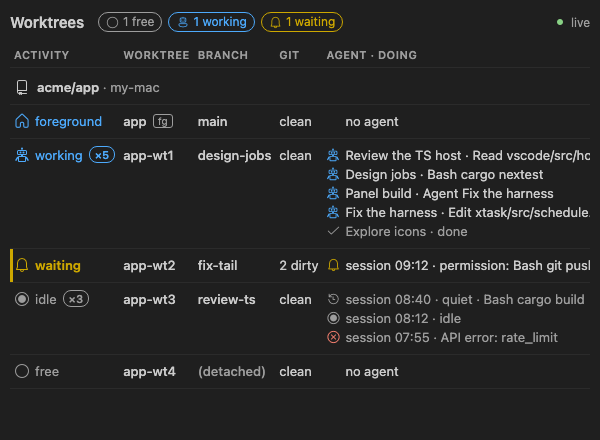
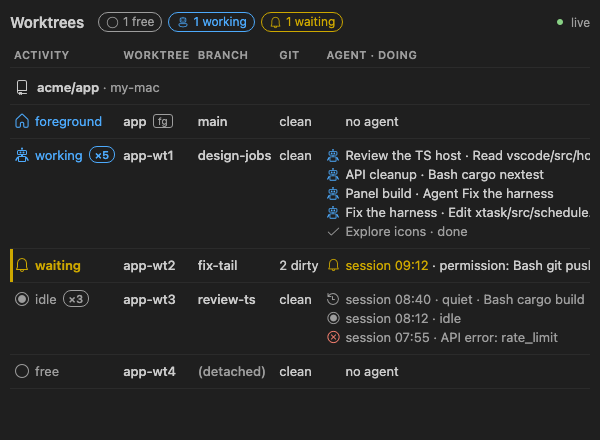
Neutral session titles in the sample data
The sample session titles in the design mockups and test fixtures are neutral names now, and the mockup images are rendered again from their pages.

Changed region(s): [[0.54, 0.325, 0.9, 0.5318], [0.57, 0.5909, 0.72, 0.6205], [0.54, 0.65, 0.57, 0.7091]]

diff --git a/docs/design/status-panel/attachments/SeveralAgents.html b/docs/design/status-panel/attachments/SeveralAgents.html
@@ -32,7 +32,7 @@
 <td class="worktree" dir="ltr"><bdi class="name">app-wt1</bdi> <span class="role" hidden></span></td>
 <td class="branch" dir="ltr"><bdi>design-jobs</bdi></td>
 <td class="git" dir="ltr"><bdi>clean</bdi></td>
-<td class="agent" dir="ltr"><div class="line state-working"><span class="line-icon" aria-hidden="true"><svg class="robot" viewBox="0 0 16 16" width="14" height="14" aria-hidden="true" focusable="false"><path class="robot-frame" fill="currentColor" d="M8 .5a1 1 0 1 1 0 2 1 1 0 0 1 0-2ZM7.5 2h1v1.5h-1ZM7 8h2v1H7Z"/><path class="robot-frame" fill="currentColor" fill-rule="evenodd" d="M4.5 3h7A1.5 1.5 0 0 1 13 4.5v2A1.5 1.5 0 0 1 11.5 8h-7A1.5 1.5 0 0 1 3 6.5v-2A1.5 1.5 0 0 1 4.5 3Zm0 1a.5.5 0 0 0-.5.5v2a.5.5 0 0 0 .5.5h7a.5.5 0 0 0 .5-.5v-2a.5.5 0 0 0-.5-.5ZM6.5 4.5a1 1 0 1 1 0 2 1 1 0 0 1 0-2Zm3 0a1 1 0 1 1 0 2 1 1 0 0 1 0-2ZM5 9h6a1 1 0 0 1 1 1v4a1 1 0 0 1-1 1H5a1 1 0 0 1-1-1v-4a1 1 0 0 1 1-1Zm0 1v4h6v-4Z"/><path class="line-arm line-arm-left" fill="currentColor" d="M3.5 9.75a.75.75 0 0 1 .75.75v3a.75.75 0 0 1-1.5 0v-3a.75.75 0 0 1 .75-.75Z"/><path class="line-arm line-arm-right" fill="currentColor" d="M12.5 9.75a.75.75 0 0 1 .75.75v3a.75.75 0 0 1-1.5 0v-3a.75.75 0 0 1 .75-.75Z"/></svg></span><span class="visually-hidden">working: </span><bdi>Review the TS host</bdi> · <bdi>Read</bdi> <bdi>vscode/src/host/panel.ts</bdi></div><div class="line state-working"><span class="line-icon" aria-hidden="true"><svg class="robot" viewBox="0 0 16 16" width="14" height="14" aria-hidden="true" focusable="false"><path class="robot-frame" fill="currentColor" d="M8 .5a1 1 0 1 1 0 2 1 1 0 0 1 0-2ZM7.5 2h1v1.5h-1ZM7 8h2v1H7Z"/><path class="robot-frame" fill="currentColor" fill-rule="evenodd" d="M4.5 3h7A1.5 1.5 0 0 1 13 4.5v2A1.5 1.5 0 0 1 11.5 8h-7A1.5 1.5 0 0 1 3 6.5v-2A1.5 1.5 0 0 1 4.5 3Zm0 1a.5.5 0 0 0-.5.5v2a.5.5 0 0 0 .5.5h7a.5.5 0 0 0 .5-.5v-2a.5.5 0 0 0-.5-.5ZM6.5 4.5a1 1 0 1 1 0 2 1 1 0 0 1 0-2Zm3 0a1 1 0 1 1 0 2 1 1 0 0 1 0-2ZM5 9h6a1 1 0 0 1 1 1v4a1 1 0 0 1-1 1H5a1 1 0 0 1-1-1v-4a1 1 0 0 1 1-1Zm0 1v4h6v-4Z"/><path class="line-arm line-arm-left" fill="currentColor" d="M3.5 9.75a.75.75 0 0 1 .75.75v3a.75.75 0 0 1-1.5 0v-3a.75.75 0 0 1 .75-.75Z"/><path class="line-arm line-arm-right" fill="currentColor" d="M12.5 9.75a.75.75 0 0 1 .75.75v3a.75.75 0 0 1-1.5 0v-3a.75.75 0 0 1 .75-.75Z"/></svg></span><span class="visually-hidden">working: </span><bdi>Design jobs</bdi> · <bdi>Bash</bdi> <bdi>cargo nextest</bdi></div><div class="line state-working"><span class="line-icon" aria-hidden="true"><svg class="robot" viewBox="0 0 16 16" width="14" height="14" aria-hidden="true" focusable="false"><path class="robot-frame" fill="currentColor" d="M8 .5a1 1 0 1 1 0 2 1 1 0 0 1 0-2ZM7.5 2h1v1.5h-1ZM7 8h2v1H7Z"/><path class="robot-frame" fill="currentColor" fill-rule="evenodd" d="M4.5 3h7A1.5 1.5 0 0 1 13 4.5v2A1.5 1.5 0 0 1 11.5 8h-7A1.5 1.5 0 0 1 3 6.5v-2A1.5 1.5 0 0 1 4.5 3Zm0 1a.5.5 0 0 0-.5.5v2a.5.5 0 0 0 .5.5h7a.5.5 0 0 0 .5-.5v-2a.5.5 0 0 0-.5-.5ZM6.5 4.5a1 1 0 1 1 0 2 1 1 0 0 1 0-2Zm3 0a1 1 0 1 1 0 2 1 1 0 0 1 0-2ZM5 9h6a1 1 0 0 1 1 1v4a1 1 0 0 1-1 1H5a1 1 0 0 1-1-1v-4a1 1 0 0 1 1-1Zm0 1v4h6v-4Z"/><path class="line-arm line-arm-left" fill="currentColor" d="M3.5 9.75a.75.75 0 0 1 .75.75v3a.75.75 0 0 1-1.5 0v-3a.75.75 0 0 1 .75-.75Z"/><path class="line-arm line-arm-right" fill="currentColor" d="M12.5 9.75a.75.75 0 0 1 .75.75v3a.75.75 0 0 1-1.5 0v-3a.75.75 0 0 1 .75-.75Z"/></svg></span><span class="visually-hidden">working: </span><bdi>Panel build</bdi> · <bdi>Agent</bdi> <bdi>Fix the harness</bdi></div><div class="line state-working"><span class="line-icon" aria-hidden="true"><svg class="robot" viewBox="0 0 16 16" width="14" height="14" aria-hidden="true" focusable="false"><path class="robot-frame" fill="currentColor" d="M8 .5a1 1 0 1 1 0 2 1 1 0 0 1 0-2ZM7.5 2h1v1.5h-1ZM7 8h2v1H7Z"/><path class="robot-frame" fill="currentColor" fill-rule="evenodd" d="M4.5 3h7A1.5 1.5 0 0 1 13 4.5v2A1.5 1.5 0 0 1 11.5 8h-7A1.5 1.5 0 0 1 3 6.5v-2A1.5 1.5 0 0 1 4.5 3Zm0 1a.5.5 0 0 0-.5.5v2a.5.5 0 0 0 .5.5h7a.5.5 0 0 0 .5-.5v-2a.5.5 0 0 0-.5-.5ZM6.5 4.5a1 1 0 1 1 0 2 1 1 0 0 1 0-2Zm3 0a1 1 0 1 1 0 2 1 1 0 0 1 0-2ZM5 9h6a1 1 0 0 1 1 1v4a1 1 0 0 1-1 1H5a1 1 0 0 1-1-1v-4a1 1 0 0 1 1-1Zm0 1v4h6v-4Z"/><path class="line-arm line-arm-left" fill="currentColor" d="M3.5 9.75a.75.75 0 0 1 .75.75v3a.75.75 0 0 1-1.5 0v-3a.75.75 0 0 1 .75-.75Z"/><path class="line-arm line-arm-right" fill="currentColor" d="M12.5 9.75a.75.75 0 0 1 .75.75v3a.75.75 0 0 1-1.5 0v-3a.75.75 0 0 1 .75-.75Z"/></svg></span><span class="visually-hidden">working: </span><bdi>Fix the harness</bdi> · <bdi>Edit</bdi> <bdi>xtask/src/schedule.rs</bdi></div><div class="line state-done"><span class="line-icon line-icon-done" aria-hidden="true"></span><span class="visually-hidden">done: </span><bdi>Explore icons</bdi> · done</div></td>
+<td class="agent" dir="ltr"><div class="line state-working"><span class="line-icon" aria-hidden="true"><svg class="robot" viewBox="0 0 16 16" width="14" height="14" aria-hidden="true" focusable="false"><path class="robot-frame" fill="currentColor" d="M8 .5a1 1 0 1 1 0 2 1 1 0 0 1 0-2ZM7.5 2h1v1.5h-1ZM7 8h2v1H7Z"/><path class="robot-frame" fill="currentColor" fill-rule="evenodd" d="M4.5 3h7A1.5 1.5 0 0 1 13 4.5v2A1.5 1.5 0 0 1 11.5 8h-7A1.5 1.5 0 0 1 3 6.5v-2A1.5 1.5 0 0 1 4.5 3Zm0 1a.5.5 0 0 0-.5.5v2a.5.5 0 0 0 .5.5h7a.5.5 0 0 0 .5-.5v-2a.5.5 0 0 0-.5-.5ZM6.5 4.5a1 1 0 1 1 0 2 1 1 0 0 1 0-2Zm3 0a1 1 0 1 1 0 2 1 1 0 0 1 0-2ZM5 9h6a1 1 0 0 1 1 1v4a1 1 0 0 1-1 1H5a1 1 0 0 1-1-1v-4a1 1 0 0 1 1-1Zm0 1v4h6v-4Z"/><path class="line-arm line-arm-left" fill="currentColor" d="M3.5 9.75a.75.75 0 0 1 .75.75v3a.75.75 0 0 1-1.5 0v-3a.75.75 0 0 1 .75-.75Z"/><path class="line-arm line-arm-right" fill="currentColor" d="M12.5 9.75a.75.75 0 0 1 .75.75v3a.75.75 0 0 1-1.5 0v-3a.75.75 0 0 1 .75-.75Z"/></svg></span><span class="visually-hidden">working: </span><bdi>Review the TS host</bdi> · <bdi>Read</bdi> <bdi>vscode/src/host/panel.ts</bdi></div><div class="line state-working"><span class="line-icon" aria-hidden="true"><svg class="robot" viewBox="0 0 16 16" width="14" height="14" aria-hidden="true" focusable="false"><path class="robot-frame" fill="currentColor" d="M8 .5a1 1 0 1 1 0 2 1 1 0 0 1 0-2ZM7.5 2h1v1.5h-1ZM7 8h2v1H7Z"/><path class="robot-frame" fill="currentColor" fill-rule="evenodd" d="M4.5 3h7A1.5 1.5 0 0 1 13 4.5v2A1.5 1.5 0 0 1 11.5 8h-7A1.5 1.5 0 0 1 3 6.5v-2A1.5 1.5 0 0 1 4.5 3Zm0 1a.5.5 0 0 0-.5.5v2a.5.5 0 0 0 .5.5h7a.5.5 0 0 0 .5-.5v-2a.5.5 0 0 0-.5-.5ZM6.5 4.5a1 1 0 1 1 0 2 1 1 0 0 1 0-2Zm3 0a1 1 0 1 1 0 2 1 1 0 0 1 0-2ZM5 9h6a1 1 0 0 1 1 1v4a1 1 0 0 1-1 1H5a1 1 0 0 1-1-1v-4a1 1 0 0 1 1-1Zm0 1v4h6v-4Z"/><path class="line-arm line-arm-left" fill="currentColor" d="M3.5 9.75a.75.75 0 0 1 .75.75v3a.75.75 0 0 1-1.5 0v-3a.75.75 0 0 1 .75-.75Z"/><path class="line-arm line-arm-right" fill="currentColor" d="M12.5 9.75a.75.75 0 0 1 .75.75v3a.75.75 0 0 1-1.5 0v-3a.75.75 0 0 1 .75-.75Z"/></svg></span><span class="visually-hidden">working: </span><bdi>API cleanup</bdi> · <bdi>Bash</bdi> <bdi>cargo nextest</bdi></div><div class="line state-working"><span class="line-icon" aria-hidden="true"><svg class="robot" viewBox="0 0 16 16" width="14" height="14" aria-hidden="true" focusable="false"><path class="robot-frame" fill="currentColor" d="M8 .5a1 1 0 1 1 0 2 1 1 0 0 1 0-2ZM7.5 2h1v1.5h-1ZM7 8h2v1H7Z"/><path class="robot-frame" fill="currentColor" fill-rule="evenodd" d="M4.5 3h7A1.5 1.5 0 0 1 13 4.5v2A1.5 1.5 0 0 1 11.5 8h-7A1.5 1.5 0 0 1 3 6.5v-2A1.5 1.5 0 0 1 4.5 3Zm0 1a.5.5 0 0 0-.5.5v2a.5.5 0 0 0 .5.5h7a.5.5 0 0 0 .5-.5v-2a.5.5 0 0 0-.5-.5ZM6.5 4.5a1 1 0 1 1 0 2 1 1 0 0 1 0-2Zm3 0a1 1 0 1 1 0 2 1 1 0 0 1 0-2ZM5 9h6a1 1 0 0 1 1 1v4a1 1 0 0 1-1 1H5a1 1 0 0 1-1-1v-4a1 1 0 0 1 1-1Zm0 1v4h6v-4Z"/><path class="line-arm line-arm-left" fill="currentColor" d="M3.5 9.75a.75.75 0 0 1 .75.75v3a.75.75 0 0 1-1.5 0v-3a.75.75 0 0 1 .75-.75Z"/><path class="line-arm line-arm-right" fill="currentColor" d="M12.5 9.75a.75.75 0 0 1 .75.75v3a.75.75 0 0 1-1.5 0v-3a.75.75 0 0 1 .75-.75Z"/></svg></span><span class="visually-hidden">working: </span><bdi>Panel build</bdi> · <bdi>Agent</bdi> <bdi>Fix the harness</bdi></div><div class="line state-working"><span class="line-icon" aria-hidden="true"><svg class="robot" viewBox="0 0 16 16" width="14" height="14" aria-hidden="true" focusable="false"><path class="robot-frame" fill="currentColor" d="M8 .5a1 1 0 1 1 0 2 1 1 0 0 1 0-2ZM7.5 2h1v1.5h-1ZM7 8h2v1H7Z"/><path class="robot-frame" fill="currentColor" fill-rule="evenodd" d="M4.5 3h7A1.5 1.5 0 0 1 13 4.5v2A1.5 1.5 0 0 1 11.5 8h-7A1.5 1.5 0 0 1 3 6.5v-2A1.5 1.5 0 0 1 4.5 3Zm0 1a.5.5 0 0 0-.5.5v2a.5.5 0 0 0 .5.5h7a.5.5 0 0 0 .5-.5v-2a.5.5 0 0 0-.5-.5ZM6.5 4.5a1 1 0 1 1 0 2 1 1 0 0 1 0-2Zm3 0a1 1 0 1 1 0 2 1 1 0 0 1 0-2ZM5 9h6a1 1 0 0 1 1 1v4a1 1 0 0 1-1 1H5a1 1 0 0 1-1-1v-4a1 1 0 0 1 1-1Zm0 1v4h6v-4Z"/><path class="line-arm line-arm-left" fill="currentColor" d="M3.5 9.75a.75.75 0 0 1 .75.75v3a.75.75 0 0 1-1.5 0v-3a.75.75 0 0 1 .75-.75Z"/><path class="line-arm line-arm-right" fill="currentColor" d="M12.5 9.75a.75.75 0 0 1 .75.75v3a.75.75 0 0 1-1.5 0v-3a.75.75 0 0 1 .75-.75Z"/></svg></span><span class="visually-hidden">working: </span><bdi>Fix the harness</bdi> · <bdi>Edit</bdi> <bdi>xtask/src/schedule.rs</bdi></div><div class="line state-done"><span class="line-icon line-icon-done" aria-hidden="true"></span><span class="visually-hidden">done: </span><bdi>Explore icons</bdi> · done</div></td>
 <td class="last"><div class="line">now</div><div class="line">8 s</div><div class="line">14 s</div><div class="line">40 s</div><div class="line">50 s</div></td>
 <td class="actions"><button type="button" class="action action-open" aria-label="open"></button><button type="button" class="action action-terminal" aria-label="terminal"></button><button type="button" class="action action-copy-path" aria-label="copy-path"></button></td>
 </tr>

diff --git a/docs/design/jobs/attachments/Strip.html b/docs/design/jobs/attachments/Strip.html
@@ -41,7 +41,7 @@
 <div class="agents-heading">Running 4 of 4</div>
 <ol class="jobs-list jobs-running"><li><bdi class="job-summary">cargo nextest</bdi><bdi class="job-where">app-wt1 · Panel build</bdi><span class="job-age">4 m</span></li><li><bdi class="job-summary">npm run</bdi><bdi class="job-where">app-wt3 · session 08:40</bdi><span class="job-age">2 m</span></li><li><bdi class="job-summary">verify</bdi><bdi class="job-where">outside this pool</bdi><span class="job-age">12 m</span></li><li><bdi class="job-summary">cargo build</bdi><bdi class="job-where">outside this pool</bdi><span class="job-age">1 m</span></li></ol>
 <div class="agents-heading">Queued 2</div>
-<ol class="jobs-list jobs-waiting"><li><span class="job-position">1</span><bdi class="job-summary">cargo test</bdi><bdi class="job-where">app-wt1 · Design jobs</bdi><span class="job-age">1 m</span></li><li><span class="job-position">2</span><bdi class="job-summary">cargo clippy</bdi><bdi class="job-where">app</bdi><span class="job-age">20 s</span></li></ol>
+<ol class="jobs-list jobs-waiting"><li><span class="job-position">1</span><bdi class="job-summary">cargo test</bdi><bdi class="job-where">app-wt1 · API cleanup</bdi><span class="job-age">1 m</span></li><li><span class="job-position">2</span><bdi class="job-summary">cargo clippy</bdi><bdi class="job-where">app</bdi><span class="job-age">20 s</span></li></ol>
 <div class="agents-heading">Not queued 1</div>
 <ol class="jobs-list jobs-running jobs-outside"><li><bdi class="job-summary">make</bdi><bdi class="job-where">outside this pool</bdi><span class="job-age">3 m</span></li></ol>
 </div>
@@ -60,7 +60,7 @@
 <td class="worktree" dir="ltr"><bdi class="name">app-wt1</bdi> <span class="role" hidden></span></td>
 <td class="branch" dir="ltr"><bdi>design-jobs</bdi></td>
 <td class="git" dir="ltr"><bdi>clean</bdi></td>
-<td class="agent" dir="ltr"><div class="line state-working"><span class="line-icon" aria-hidden="true"><svg class="robot" viewBox="0 0 16 16" width="14" height="14" aria-hidden="true" focusable="false"><path class="robot-frame" fill="currentColor" d="M8 .5a1 1 0 1 1 0 2 1 1 0 0 1 0-2ZM7.5 2h1v1.5h-1ZM7 8h2v1H7Z"/><path class="robot-frame" fill="currentColor" fill-rule="evenodd" d="M4.5 3h7A1.5 1.5 0 0 1 13 4.5v2A1.5 1.5 0 0 1 11.5 8h-7A1.5 1.5 0 0 1 3 6.5v-2A1.5 1.5 0 0 1 4.5 3Zm0 1a.5.5 0 0 0-.5.5v2a.5.5 0 0 0 .5.5h7a.5.5 0 0 0 .5-.5v-2a.5.5 0 0 0-.5-.5ZM6.5 4.5a1 1 0 1 1 0 2 1 1 0 0 1 0-2Zm3 0a1 1 0 1 1 0 2 1 1 0 0 1 0-2ZM5 9h6a1 1 0 0 1 1 1v4a1 1 0 0 1-1 1H5a1 1 0 0 1-1-1v-4a1 1 0 0 1 1-1Zm0 1v4h6v-4Z"/><path class="line-arm line-arm-left" fill="currentColor" d="M3.5 9.75a.75.75 0 0 1 .75.75v3a.75.75 0 0 1-1.5 0v-3a.75.75 0 0 1 .75-.75Z"/><path class="line-arm line-arm-right" fill="currentColor" d="M12.5 9.75a.75.75 0 0 1 .75.75v3a.75.75 0 0 1-1.5 0v-3a.75.75 0 0 1 .75-.75Z"/></svg></span><span class="visually-hidden">working: </span><bdi>Design jobs</bdi> · <bdi>queued:</bdi> <bdi>cargo test</bdi></div><div class="line state-working"><span class="line-icon" aria-hidden="true"><svg class="robot" viewBox="0 0 16 16" width="14" height="14" aria-hidden="true" focusable="false"><path class="robot-frame" fill="currentColor" d="M8 .5a1 1 0 1 1 0 2 1 1 0 0 1 0-2ZM7.5 2h1v1.5h-1ZM7 8h2v1H7Z"/><path class="robot-frame" fill="currentColor" fill-rule="evenodd" d="M4.5 3h7A1.5 1.5 0 0 1 13 4.5v2A1.5 1.5 0 0 1 11.5 8h-7A1.5 1.5 0 0 1 3 6.5v-2A1.5 1.5 0 0 1 4.5 3Zm0 1a.5.5 0 0 0-.5.5v2a.5.5 0 0 0 .5.5h7a.5.5 0 0 0 .5-.5v-2a.5.5 0 0 0-.5-.5ZM6.5 4.5a1 1 0 1 1 0 2 1 1 0 0 1 0-2Zm3 0a1 1 0 1 1 0 2 1 1 0 0 1 0-2ZM5 9h6a1 1 0 0 1 1 1v4a1 1 0 0 1-1 1H5a1 1 0 0 1-1-1v-4a1 1 0 0 1 1-1Zm0 1v4h6v-4Z"/><path class="line-arm line-arm-left" fill="currentColor" d="M3.5 9.75a.75.75 0 0 1 .75.75v3a.75.75 0 0 1-1.5 0v-3a.75.75 0 0 1 .75-.75Z"/><path class="line-arm line-arm-right" fill="currentColor" d="M12.5 9.75a.75.75 0 0 1 .75.75v3a.75.75 0 0 1-1.5 0v-3a.75.75 0 0 1 .75-.75Z"/></svg></span><span class="visually-hidden">working: </span><bdi>Panel build</bdi> · <bdi>Bash</bdi> <bdi>cargo nextest</bdi></div></td>
+<td class="agent" dir="ltr"><div class="line state-working"><span class="line-icon" aria-hidden="true"><svg class="robot" viewBox="0 0 16 16" width="14" height="14" aria-hidden="true" focusable="false"><path class="robot-frame" fill="currentColor" d="M8 .5a1 1 0 1 1 0 2 1 1 0 0 1 0-2ZM7.5 2h1v1.5h-1ZM7 8h2v1H7Z"/><path class="robot-frame" fill="currentColor" fill-rule="evenodd" d="M4.5 3h7A1.5 1.5 0 0 1 13 4.5v2A1.5 1.5 0 0 1 11.5 8h-7A1.5 1.5 0 0 1 3 6.5v-2A1.5 1.5 0 0 1 4.5 3Zm0 1a.5.5 0 0 0-.5.5v2a.5.5 0 0 0 .5.5h7a.5.5 0 0 0 .5-.5v-2a.5.5 0 0 0-.5-.5ZM6.5 4.5a1 1 0 1 1 0 2 1 1 0 0 1 0-2Zm3 0a1 1 0 1 1 0 2 1 1 0 0 1 0-2ZM5 9h6a1 1 0 0 1 1 1v4a1 1 0 0 1-1 1H5a1 1 0 0 1-1-1v-4a1 1 0 0 1 1-1Zm0 1v4h6v-4Z"/><path class="line-arm line-arm-left" fill="currentColor" d="M3.5 9.75a.75.75 0 0 1 .75.75v3a.75.75 0 0 1-1.5 0v-3a.75.75 0 0 1 .75-.75Z"/><path class="line-arm line-arm-right" fill="currentColor" d="M12.5 9.75a.75.75 0 0 1 .75.75v3a.75.75 0 0 1-1.5 0v-3a.75.75 0 0 1 .75-.75Z"/></svg></span><span class="visually-hidden">working: </span><bdi>API cleanup</bdi> · <bdi>queued:</bdi> <bdi>cargo test</bdi></div><div class="line state-working"><span class="line-icon" aria-hidden="true"><svg class="robot" viewBox="0 0 16 16" width="14" height="14" aria-hidden="true" focusable="false"><path class="robot-frame" fill="currentColor" d="M8 .5a1 1 0 1 1 0 2 1 1 0 0 1 0-2ZM7.5 2h1v1.5h-1ZM7 8h2v1H7Z"/><path class="robot-frame" fill="currentColor" fill-rule="evenodd" d="M4.5 3h7A1.5 1.5 0 0 1 13 4.5v2A1.5 1.5 0 0 1 11.5 8h-7A1.5 1.5 0 0 1 3 6.5v-2A1.5 1.5 0 0 1 4.5 3Zm0 1a.5.5 0 0 0-.5.5v2a.5.5 0 0 0 .5.5h7a.5.5 0 0 0 .5-.5v-2a.5.5 0 0 0-.5-.5ZM6.5 4.5a1 1 0 1 1 0 2 1 1 0 0 1 0-2Zm3 0a1 1 0 1 1 0 2 1 1 0 0 1 0-2ZM5 9h6a1 1 0 0 1 1 1v4a1 1 0 0 1-1 1H5a1 1 0 0 1-1-1v-4a1 1 0 0 1 1-1Zm0 1v4h6v-4Z"/><path class="line-arm line-arm-left" fill="currentColor" d="M3.5 9.75a.75.75 0 0 1 .75.75v3a.75.75 0 0 1-1.5 0v-3a.75.75 0 0 1 .75-.75Z"/><path class="line-arm line-arm-right" fill="currentColor" d="M12.5 9.75a.75.75 0 0 1 .75.75v3a.75.75 0 0 1-1.5 0v-3a.75.75 0 0 1 .75-.75Z"/></svg></span><span class="visually-hidden">working: </span><bdi>Panel build</bdi> · <bdi>Bash</bdi> <bdi>cargo nextest</bdi></div></td>
 <td class="last"><div class="line">now</div><div class="line">4 m</div></td>
 <td class="actions"><button type="button" class="action action-open" aria-label="open"></button><button type="button" class="action action-terminal" aria-label="terminal"></button><button type="button" class="action action-copy-path" aria-label="copy-path"></button></td>
 </tr>

diff --git a/docs/design/jobs/attachments/OptionNative.html b/docs/design/jobs/attachments/OptionNative.html
@@ -32,7 +32,7 @@
 <td class="worktree" dir="ltr"><bdi class="name">app-wt1</bdi> <span class="role" hidden></span></td>
 <td class="branch" dir="ltr"><bdi>design-jobs</bdi></td>
 <td class="git" dir="ltr"><bdi>clean</bdi></td>
-<td class="agent" dir="ltr"><div class="line state-working"><span class="line-icon" aria-hidden="true"><svg class="robot" viewBox="0 0 16 16" width="14" height="14" aria-hidden="true" focusable="false"><path class="robot-frame" fill="currentColor" d="M8 .5a1 1 0 1 1 0 2 1 1 0 0 1 0-2ZM7.5 2h1v1.5h-1ZM7 8h2v1H7Z"/><path class="robot-frame" fill="currentColor" fill-rule="evenodd" d="M4.5 3h7A1.5 1.5 0 0 1 13 4.5v2A1.5 1.5 0 0 1 11.5 8h-7A1.5 1.5 0 0 1 3 6.5v-2A1.5 1.5 0 0 1 4.5 3Zm0 1a.5.5 0 0 0-.5.5v2a.5.5 0 0 0 .5.5h7a.5.5 0 0 0 .5-.5v-2a.5.5 0 0 0-.5-.5ZM6.5 4.5a1 1 0 1 1 0 2 1 1 0 0 1 0-2Zm3 0a1 1 0 1 1 0 2 1 1 0 0 1 0-2ZM5 9h6a1 1 0 0 1 1 1v4a1 1 0 0 1-1 1H5a1 1 0 0 1-1-1v-4a1 1 0 0 1 1-1Zm0 1v4h6v-4Z"/><path class="line-arm line-arm-left" fill="currentColor" d="M3.5 9.75a.75.75 0 0 1 .75.75v3a.75.75 0 0 1-1.5 0v-3a.75.75 0 0 1 .75-.75Z"/><path class="line-arm line-arm-right" fill="currentColor" d="M12.5 9.75a.75.75 0 0 1 .75.75v3a.75.75 0 0 1-1.5 0v-3a.75.75 0 0 1 .75-.75Z"/></svg></span><span class="visually-hidden">working: </span><bdi>Design jobs</bdi> · <bdi>queued:</bdi> <bdi>cargo test</bdi></div><div class="line state-working"><span class="line-icon" aria-hidden="true"><svg class="robot" viewBox="0 0 16 16" width="14" height="14" aria-hidden="true" focusable="false"><path class="robot-frame" fill="currentColor" d="M8 .5a1 1 0 1 1 0 2 1 1 0 0 1 0-2ZM7.5 2h1v1.5h-1ZM7 8h2v1H7Z"/><path class="robot-frame" fill="currentColor" fill-rule="evenodd" d="M4.5 3h7A1.5 1.5 0 0 1 13 4.5v2A1.5 1.5 0 0 1 11.5 8h-7A1.5 1.5 0 0 1 3 6.5v-2A1.5 1.5 0 0 1 4.5 3Zm0 1a.5.5 0 0 0-.5.5v2a.5.5 0 0 0 .5.5h7a.5.5 0 0 0 .5-.5v-2a.5.5 0 0 0-.5-.5ZM6.5 4.5a1 1 0 1 1 0 2 1 1 0 0 1 0-2Zm3 0a1 1 0 1 1 0 2 1 1 0 0 1 0-2ZM5 9h6a1 1 0 0 1 1 1v4a1 1 0 0 1-1 1H5a1 1 0 0 1-1-1v-4a1 1 0 0 1 1-1Zm0 1v4h6v-4Z"/><path class="line-arm line-arm-left" fill="currentColor" d="M3.5 9.75a.75.75 0 0 1 .75.75v3a.75.75 0 0 1-1.5 0v-3a.75.75 0 0 1 .75-.75Z"/><path class="line-arm line-arm-right" fill="currentColor" d="M12.5 9.75a.75.75 0 0 1 .75.75v3a.75.75 0 0 1-1.5 0v-3a.75.75 0 0 1 .75-.75Z"/></svg></span><span class="visually-hidden">working: </span><bdi>Panel build</bdi> · <bdi>Bash</bdi> <bdi>cargo nextest</bdi></div></td>
+<td class="agent" dir="ltr"><div class="line state-working"><span class="line-icon" aria-hidden="true"><svg class="robot" viewBox="0 0 16 16" width="14" height="14" aria-hidden="true" focusable="false"><path class="robot-frame" fill="currentColor" d="M8 .5a1 1 0 1 1 0 2 1 1 0 0 1 0-2ZM7.5 2h1v1.5h-1ZM7 8h2v1H7Z"/><path class="robot-frame" fill="currentColor" fill-rule="evenodd" d="M4.5 3h7A1.5 1.5 0 0 1 13 4.5v2A1.5 1.5 0 0 1 11.5 8h-7A1.5 1.5 0 0 1 3 6.5v-2A1.5 1.5 0 0 1 4.5 3Zm0 1a.5.5 0 0 0-.5.5v2a.5.5 0 0 0 .5.5h7a.5.5 0 0 0 .5-.5v-2a.5.5 0 0 0-.5-.5ZM6.5 4.5a1 1 0 1 1 0 2 1 1 0 0 1 0-2Zm3 0a1 1 0 1 1 0 2 1 1 0 0 1 0-2ZM5 9h6a1 1 0 0 1 1 1v4a1 1 0 0 1-1 1H5a1 1 0 0 1-1-1v-4a1 1 0 0 1 1-1Zm0 1v4h6v-4Z"/><path class="line-arm line-arm-left" fill="currentColor" d="M3.5 9.75a.75.75 0 0 1 .75.75v3a.75.75 0 0 1-1.5 0v-3a.75.75 0 0 1 .75-.75Z"/><path class="line-arm line-arm-right" fill="currentColor" d="M12.5 9.75a.75.75 0 0 1 .75.75v3a.75.75 0 0 1-1.5 0v-3a.75.75 0 0 1 .75-.75Z"/></svg></span><span class="visually-hidden">working: </span><bdi>API cleanup</bdi> · <bdi>queued:</bdi> <bdi>cargo test</bdi></div><div class="line state-working"><span class="line-icon" aria-hidden="true"><svg class="robot" viewBox="0 0 16 16" width="14" height="14" aria-hidden="true" focusable="false"><path class="robot-frame" fill="currentColor" d="M8 .5a1 1 0 1 1 0 2 1 1 0 0 1 0-2ZM7.5 2h1v1.5h-1ZM7 8h2v1H7Z"/><path class="robot-frame" fill="currentColor" fill-rule="evenodd" d="M4.5 3h7A1.5 1.5 0 0 1 13 4.5v2A1.5 1.5 0 0 1 11.5 8h-7A1.5 1.5 0 0 1 3 6.5v-2A1.5 1.5 0 0 1 4.5 3Zm0 1a.5.5 0 0 0-.5.5v2a.5.5 0 0 0 .5.5h7a.5.5 0 0 0 .5-.5v-2a.5.5 0 0 0-.5-.5ZM6.5 4.5a1 1 0 1 1 0 2 1 1 0 0 1 0-2Zm3 0a1 1 0 1 1 0 2 1 1 0 0 1 0-2ZM5 9h6a1 1 0 0 1 1 1v4a1 1 0 0 1-1 1H5a1 1 0 0 1-1-1v-4a1 1 0 0 1 1-1Zm0 1v4h6v-4Z"/><path class="line-arm line-arm-left" fill="currentColor" d="M3.5 9.75a.75.75 0 0 1 .75.75v3a.75.75 0 0 1-1.5 0v-3a.75.75 0 0 1 .75-.75Z"/><path class="line-arm line-arm-right" fill="currentColor" d="M12.5 9.75a.75.75 0 0 1 .75.75v3a.75.75 0 0 1-1.5 0v-3a.75.75 0 0 1 .75-.75Z"/></svg></span><span class="visually-hidden">working: </span><bdi>Panel build</bdi> · <bdi>Bash</bdi> <bdi>cargo nextest</bdi></div></td>
 <td class="last"><div class="line">now</div><div class="line">4 m</div></td>
 <td class="actions"><button type="button" class="action action-open" aria-label="open"></button><button type="button" class="action action-terminal" aria-label="terminal"></button><button type="button" class="action action-copy-path" aria-label="copy-path"></button></td>
 </tr>
@@ -74,7 +74,7 @@
 <div class="quick-item"><span>verify</span><span class="quick-detail">outside this pool</span><span class="quick-age">12 m</span></div>
 <div class="quick-item"><span>cargo build</span><span class="quick-detail">outside this pool</span><span class="quick-age">1 m</span></div>
 <div class="quick-separator">queued 2</div>
-<div class="quick-item"><span>1. cargo test</span><span class="quick-detail">app-wt1 · Design jobs</span><span class="quick-age">1 m</span></div>
+<div class="quick-item"><span>1. cargo test</span><span class="quick-detail">app-wt1 · API cleanup</span><span class="quick-age">1 m</span></div>
 <div class="quick-item"><span>2. cargo clippy</span><span class="quick-detail">app</span><span class="quick-age">20 s</span></div>
 </div></body>
 </html>

diff --git a/docs/design/jobs/attachments/Measured.html b/docs/design/jobs/attachments/Measured.html
@@ -69,7 +69,7 @@
 <td class="worktree" dir="ltr"><bdi class="name">app-wt1</bdi> <span class="role" hidden></span></td>
 <td class="branch" dir="ltr"><bdi>design-jobs</bdi></td>
 <td class="git" dir="ltr"><bdi>clean</bdi></td>
-<td class="agent" dir="ltr"><div class="line state-working"><span class="line-icon" aria-hidden="true"><svg class="robot" viewBox="0 0 16 16" width="14" height="14" aria-hidden="true" focusable="false"><path class="robot-frame" fill="currentColor" d="M8 .5a1 1 0 1 1 0 2 1 1 0 0 1 0-2ZM7.5 2h1v1.5h-1ZM7 8h2v1H7Z"/><path class="robot-frame" fill="currentColor" fill-rule="evenodd" d="M4.5 3h7A1.5 1.5 0 0 1 13 4.5v2A1.5 1.5 0 0 1 11.5 8h-7A1.5 1.5 0 0 1 3 6.5v-2A1.5 1.5 0 0 1 4.5 3Zm0 1a.5.5 0 0 0-.5.5v2a.5.5 0 0 0 .5.5h7a.5.5 0 0 0 .5-.5v-2a.5.5 0 0 0-.5-.5ZM6.5 4.5a1 1 0 1 1 0 2 1 1 0 0 1 0-2Zm3 0a1 1 0 1 1 0 2 1 1 0 0 1 0-2ZM5 9h6a1 1 0 0 1 1 1v4a1 1 0 0 1-1 1H5a1 1 0 0 1-1-1v-4a1 1 0 0 1 1-1Zm0 1v4h6v-4Z"/><path class="line-arm line-arm-left" fill="currentColor" d="M3.5 9.75a.75.75 0 0 1 .75.75v3a.75.75 0 0 1-1.5 0v-3a.75.75 0 0 1 .75-.75Z"/><path class="line-arm line-arm-right" fill="currentColor" d="M12.5 9.75a.75.75 0 0 1 .75.75v3a.75.75 0 0 1-1.5 0v-3a.75.75 0 0 1 .75-.75Z"/></svg></span><span class="visually-hidden">working: </span><bdi>Design jobs</bdi> · <bdi>queued:</bdi> <bdi>cargo test</bdi></div><div class="line state-working"><span class="line-icon" aria-hidden="true"><svg class="robot" viewBox="0 0 16 16" width="14" height="14" aria-hidden="true" focusable="false"><path class="robot-frame" fill="currentColor" d="M8 .5a1 1 0 1 1 0 2 1 1 0 0 1 0-2ZM7.5 2h1v1.5h-1ZM7 8h2v1H7Z"/><path class="robot-frame" fill="currentColor" fill-rule="evenodd" d="M4.5 3h7A1.5 1.5 0 0 1 13 4.5v2A1.5 1.5 0 0 1 11.5 8h-7A1.5 1.5 0 0 1 3 6.5v-2A1.5 1.5 0 0 1 4.5 3Zm0 1a.5.5 0 0 0-.5.5v2a.5.5 0 0 0 .5.5h7a.5.5 0 0 0 .5-.5v-2a.5.5 0 0 0-.5-.5ZM6.5 4.5a1 1 0 1 1 0 2 1 1 0 0 1 0-2Zm3 0a1 1 0 1 1 0 2 1 1 0 0 1 0-2ZM5 9h6a1 1 0 0 1 1 1v4a1 1 0 0 1-1 1H5a1 1 0 0 1-1-1v-4a1 1 0 0 1 1-1Zm0 1v4h6v-4Z"/><path class="line-arm line-arm-left" fill="currentColor" d="M3.5 9.75a.75.75 0 0 1 .75.75v3a.75.75 0 0 1-1.5 0v-3a.75.75 0 0 1 .75-.75Z"/><path class="line-arm line-arm-right" fill="currentColor" d="M12.5 9.75a.75.75 0 0 1 .75.75v3a.75.75 0 0 1-1.5 0v-3a.75.75 0 0 1 .75-.75Z"/></svg></span><span class="visually-hidden">working: </span><bdi>Panel build</bdi> · <bdi>Bash</bdi> <bdi>cargo nextest</bdi></div></td>
+<td class="agent" dir="ltr"><div class="line state-working"><span class="line-icon" aria-hidden="true"><svg class="robot" viewBox="0 0 16 16" width="14" height="14" aria-hidden="true" focusable="false"><path class="robot-frame" fill="currentColor" d="M8 .5a1 1 0 1 1 0 2 1 1 0 0 1 0-2ZM7.5 2h1v1.5h-1ZM7 8h2v1H7Z"/><path class="robot-frame" fill="currentColor" fill-rule="evenodd" d="M4.5 3h7A1.5 1.5 0 0 1 13 4.5v2A1.5 1.5 0 0 1 11.5 8h-7A1.5 1.5 0 0 1 3 6.5v-2A1.5 1.5 0 0 1 4.5 3Zm0 1a.5.5 0 0 0-.5.5v2a.5.5 0 0 0 .5.5h7a.5.5 0 0 0 .5-.5v-2a.5.5 0 0 0-.5-.5ZM6.5 4.5a1 1 0 1 1 0 2 1 1 0 0 1 0-2Zm3 0a1 1 0 1 1 0 2 1 1 0 0 1 0-2ZM5 9h6a1 1 0 0 1 1 1v4a1 1 0 0 1-1 1H5a1 1 0 0 1-1-1v-4a1 1 0 0 1 1-1Zm0 1v4h6v-4Z"/><path class="line-arm line-arm-left" fill="currentColor" d="M3.5 9.75a.75.75 0 0 1 .75.75v3a.75.75 0 0 1-1.5 0v-3a.75.75 0 0 1 .75-.75Z"/><path class="line-arm line-arm-right" fill="currentColor" d="M12.5 9.75a.75.75 0 0 1 .75.75v3a.75.75 0 0 1-1.5 0v-3a.75.75 0 0 1 .75-.75Z"/></svg></span><span class="visually-hidden">working: </span><bdi>API cleanup</bdi> · <bdi>queued:</bdi> <bdi>cargo test</bdi></div><div class="line state-working"><span class="line-icon" aria-hidden="true"><svg class="robot" viewBox="0 0 16 16" width="14" height="14" aria-hidden="true" focusable="false"><path class="robot-frame" fill="currentColor" d="M8 .5a1 1 0 1 1 0 2 1 1 0 0 1 0-2ZM7.5 2h1v1.5h-1ZM7 8h2v1H7Z"/><path class="robot-frame" fill="currentColor" fill-rule="evenodd" d="M4.5 3h7A1.5 1.5 0 0 1 13 4.5v2A1.5 1.5 0 0 1 11.5 8h-7A1.5 1.5 0 0 1 3 6.5v-2A1.5 1.5 0 0 1 4.5 3Zm0 1a.5.5 0 0 0-.5.5v2a.5.5 0 0 0 .5.5h7a.5.5 0 0 0 .5-.5v-2a.5.5 0 0 0-.5-.5ZM6.5 4.5a1 1 0 1 1 0 2 1 1 0 0 1 0-2Zm3 0a1 1 0 1 1 0 2 1 1 0 0 1 0-2ZM5 9h6a1 1 0 0 1 1 1v4a1 1 0 0 1-1 1H5a1 1 0 0 1-1-1v-4a1 1 0 0 1 1-1Zm0 1v4h6v-4Z"/><path class="line-arm line-arm-left" fill="currentColor" d="M3.5 9.75a.75.75 0 0 1 .75.75v3a.75.75 0 0 1-1.5 0v-3a.75.75 0 0 1 .75-.75Z"/><path class="line-arm line-arm-right" fill="currentColor" d="M12.5 9.75a.75.75 0 0 1 .75.75v3a.75.75 0 0 1-1.5 0v-3a.75.75 0 0 1 .75-.75Z"/></svg></span><span class="visually-hidden">working: </span><bdi>Panel build</bdi> · <bdi>Bash</bdi> <bdi>cargo nextest</bdi></div></td>
 <td class="last"><div class="line">now</div><div class="line">4 m</div></td>
 <td class="actions"><button type="button" class="action action-open" aria-label="open"></button><button type="button" class="action action-terminal" aria-label="terminal"></button><button type="button" class="action action-copy-path" aria-label="copy-path"></button></td>
 </tr>

diff --git a/docs/design/jobs/attachments/MeasuredDismissed.html b/docs/design/jobs/attachments/MeasuredDismissed.html
@@ -71,7 +71,7 @@
 <td class="worktree" dir="ltr"><bdi class="name">app-wt1</bdi> <span class="role" hidden></span></td>
 <td class="branch" dir="ltr"><bdi>design-jobs</bdi></td>
 <td class="git" dir="ltr"><bdi>clean</bdi></td>
-<td class="agent" dir="ltr"><div class="line state-working"><span class="line-icon" aria-hidden="true"><svg class="robot" viewBox="0 0 16 16" width="14" height="14" aria-hidden="true" focusable="false"><path class="robot-frame" fill="currentColor" d="M8 .5a1 1 0 1 1 0 2 1 1 0 0 1 0-2ZM7.5 2h1v1.5h-1ZM7 8h2v1H7Z"/><path class="robot-frame" fill="currentColor" fill-rule="evenodd" d="M4.5 3h7A1.5 1.5 0 0 1 13 4.5v2A1.5 1.5 0 0 1 11.5 8h-7A1.5 1.5 0 0 1 3 6.5v-2A1.5 1.5 0 0 1 4.5 3Zm0 1a.5.5 0 0 0-.5.5v2a.5.5 0 0 0 .5.5h7a.5.5 0 0 0 .5-.5v-2a.5.5 0 0 0-.5-.5ZM6.5 4.5a1 1 0 1 1 0 2 1 1 0 0 1 0-2Zm3 0a1 1 0 1 1 0 2 1 1 0 0 1 0-2ZM5 9h6a1 1 0 0 1 1 1v4a1 1 0 0 1-1 1H5a1 1 0 0 1-1-1v-4a1 1 0 0 1 1-1Zm0 1v4h6v-4Z"/><path class="line-arm line-arm-left" fill="currentColor" d="M3.5 9.75a.75.75 0 0 1 .75.75v3a.75.75 0 0 1-1.5 0v-3a.75.75 0 0 1 .75-.75Z"/><path class="line-arm line-arm-right" fill="currentColor" d="M12.5 9.75a.75.75 0 0 1 .75.75v3a.75.75 0 0 1-1.5 0v-3a.75.75 0 0 1 .75-.75Z"/></svg></span><span class="visually-hidden">working: </span><bdi>Design jobs</bdi> · <bdi>queued:</bdi> <bdi>cargo test</bdi></div><div class="line state-working"><span class="line-icon" aria-hidden="true"><svg class="robot" viewBox="0 0 16 16" width="14" height="14" aria-hidden="true" focusable="false"><path class="robot-frame" fill="currentColor" d="M8 .5a1 1 0 1 1 0 2 1 1 0 0 1 0-2ZM7.5 2h1v1.5h-1ZM7 8h2v1H7Z"/><path class="robot-frame" fill="currentColor" fill-rule="evenodd" d="M4.5 3h7A1.5 1.5 0 0 1 13 4.5v2A1.5 1.5 0 0 1 11.5 8h-7A1.5 1.5 0 0 1 3 6.5v-2A1.5 1.5 0 0 1 4.5 3Zm0 1a.5.5 0 0 0-.5.5v2a.5.5 0 0 0 .5.5h7a.5.5 0 0 0 .5-.5v-2a.5.5 0 0 0-.5-.5ZM6.5 4.5a1 1 0 1 1 0 2 1 1 0 0 1 0-2Zm3 0a1 1 0 1 1 0 2 1 1 0 0 1 0-2ZM5 9h6a1 1 0 0 1 1 1v4a1 1 0 0 1-1 1H5a1 1 0 0 1-1-1v-4a1 1 0 0 1 1-1Zm0 1v4h6v-4Z"/><path class="line-arm line-arm-left" fill="currentColor" d="M3.5 9.75a.75.75 0 0 1 .75.75v3a.75.75 0 0 1-1.5 0v-3a.75.75 0 0 1 .75-.75Z"/><path class="line-arm line-arm-right" fill="currentColor" d="M12.5 9.75a.75.75 0 0 1 .75.75v3a.75.75 0 0 1-1.5 0v-3a.75.75 0 0 1 .75-.75Z"/></svg></span><span class="visually-hidden">working: </span><bdi>Panel build</bdi> · <bdi>Bash</bdi> <bdi>cargo nextest</bdi></div></td>
+<td class="agent" dir="ltr"><div class="line state-working"><span class="line-icon" aria-hidden="true"><svg class="robot" viewBox="0 0 16 16" width="14" height="14" aria-hidden="true" focusable="false"><path class="robot-frame" fill="currentColor" d="M8 .5a1 1 0 1 1 0 2 1 1 0 0 1 0-2ZM7.5 2h1v1.5h-1ZM7 8h2v1H7Z"/><path class="robot-frame" fill="currentColor" fill-rule="evenodd" d="M4.5 3h7A1.5 1.5 0 0 1 13 4.5v2A1.5 1.5 0 0 1 11.5 8h-7A1.5 1.5 0 0 1 3 6.5v-2A1.5 1.5 0 0 1 4.5 3Zm0 1a.5.5 0 0 0-.5.5v2a.5.5 0 0 0 .5.5h7a.5.5 0 0 0 .5-.5v-2a.5.5 0 0 0-.5-.5ZM6.5 4.5a1 1 0 1 1 0 2 1 1 0 0 1 0-2Zm3 0a1 1 0 1 1 0 2 1 1 0 0 1 0-2ZM5 9h6a1 1 0 0 1 1 1v4a1 1 0 0 1-1 1H5a1 1 0 0 1-1-1v-4a1 1 0 0 1 1-1Zm0 1v4h6v-4Z"/><path class="line-arm line-arm-left" fill="currentColor" d="M3.5 9.75a.75.75 0 0 1 .75.75v3a.75.75 0 0 1-1.5 0v-3a.75.75 0 0 1 .75-.75Z"/><path class="line-arm line-arm-right" fill="currentColor" d="M12.5 9.75a.75.75 0 0 1 .75.75v3a.75.75 0 0 1-1.5 0v-3a.75.75 0 0 1 .75-.75Z"/></svg></span><span class="visually-hidden">working: </span><bdi>API cleanup</bdi> · <bdi>queued:</bdi> <bdi>cargo test</bdi></div><div class="line state-working"><span class="line-icon" aria-hidden="true"><svg class="robot" viewBox="0 0 16 16" width="14" height="14" aria-hidden="true" focusable="false"><path class="robot-frame" fill="currentColor" d="M8 .5a1 1 0 1 1 0 2 1 1 0 0 1 0-2ZM7.5 2h1v1.5h-1ZM7 8h2v1H7Z"/><path class="robot-frame" fill="currentColor" fill-rule="evenodd" d="M4.5 3h7A1.5 1.5 0 0 1 13 4.5v2A1.5 1.5 0 0 1 11.5 8h-7A1.5 1.5 0 0 1 3 6.5v-2A1.5 1.5 0 0 1 4.5 3Zm0 1a.5.5 0 0 0-.5.5v2a.5.5 0 0 0 .5.5h7a.5.5 0 0 0 .5-.5v-2a.5.5 0 0 0-.5-.5ZM6.5 4.5a1 1 0 1 1 0 2 1 1 0 0 1 0-2Zm3 0a1 1 0 1 1 0 2 1 1 0 0 1 0-2ZM5 9h6a1 1 0 0 1 1 1v4a1 1 0 0 1-1 1H5a1 1 0 0 1-1-1v-4a1 1 0 0 1 1-1Zm0 1v4h6v-4Z"/><path class="line-arm line-arm-left" fill="currentColor" d="M3.5 9.75a.75.75 0 0 1 .75.75v3a.75.75 0 0 1-1.5 0v-3a.75.75 0 0 1 .75-.75Z"/><path class="line-arm line-arm-right" fill="currentColor" d="M12.5 9.75a.75.75 0 0 1 .75.75v3a.75.75 0 0 1-1.5 0v-3a.75.75 0 0 1 .75-.75Z"/></svg></span><span class="visually-hidden">working: </span><bdi>Panel build</bdi> · <bdi>Bash</bdi> <bdi>cargo nextest</bdi></div></td>
 <td class="last"><div class="line">now</div><div class="line">4 m</div></td>
 <td class="actions"><button type="button" class="action action-open" aria-label="open"></button><button type="button" class="action action-terminal" aria-label="terminal"></button><button type="button" class="action action-copy-path" aria-label="copy-path"></button></td>
 </tr>

diff --git a/docs/design/jobs/attachments/ChipFocus.html b/docs/design/jobs/attachments/ChipFocus.html
@@ -41,7 +41,7 @@
 <div class="agents-heading">Running 4 of 4</div>
 <ol class="jobs-list jobs-running"><li><bdi class="job-summary">cargo nextest</bdi><bdi class="job-where">app-wt1 · Panel build</bdi><span class="job-age">4 m</span></li><li><bdi class="job-summary">npm run</bdi><bdi class="job-where">app-wt3 · session 08:40</bdi><span class="job-age">2 m</span></li><li><bdi class="job-summary">verify</bdi><bdi class="job-where">outside this pool</bdi><span class="job-age">12 m</span></li><li><bdi class="job-summary">cargo build</bdi><bdi class="job-where">outside this pool</bdi><span class="job-age">1 m</span></li></ol>
 <div class="agents-heading">Queued 2</div>
-<ol class="jobs-list jobs-waiting"><li><span class="job-position">1</span><bdi class="job-summary">cargo test</bdi><bdi class="job-where">app-wt1 · Design jobs</bdi><span class="job-age">1 m</span></li><li><span class="job-position">2</span><bdi class="job-summary">cargo clippy</bdi><bdi class="job-where">app</bdi><span class="job-age">20 s</span></li></ol>
+<ol class="jobs-list jobs-waiting"><li><span class="job-position">1</span><bdi class="job-summary">cargo test</bdi><bdi class="job-where">app-wt1 · API cleanup</bdi><span class="job-age">1 m</span></li><li><span class="job-position">2</span><bdi class="job-summary">cargo clippy</bdi><bdi class="job-where">app</bdi><span class="job-age">20 s</span></li></ol>
 <div class="agents-heading">Not queued 1</div>
 <ol class="jobs-list jobs-running jobs-outside"><li><bdi class="job-summary">make</bdi><bdi class="job-where">outside this pool</bdi><span class="job-age">3 m</span></li></ol>
 </div>

diff --git a/docs/design/jobs/attachments/PatternError.html b/docs/design/jobs/attachments/PatternError.html
@@ -41,7 +41,7 @@
 <div class="agents-heading">Running 4 of 4</div>
 <ol class="jobs-list jobs-running"><li><bdi class="job-summary">cargo nextest</bdi><bdi class="job-where">app-wt1 · Panel build</bdi><span class="job-age">4 m</span></li><li><bdi class="job-summary">npm run</bdi><bdi class="job-where">app-wt3 · session 08:40</bdi><span class="job-age">2 m</span></li><li><bdi class="job-summary">verify</bdi><bdi class="job-where">outside this pool</bdi><span class="job-age">12 m</span></li><li><bdi class="job-summary">cargo build</bdi><bdi class="job-where">outside this pool</bdi><span class="job-age">1 m</span></li></ol>
 <div class="agents-heading">Queued 2</div>
-<ol class="jobs-list jobs-waiting"><li><span class="job-position">1</span><bdi class="job-summary">cargo test</bdi><bdi class="job-where">app-wt1 · Design jobs</bdi><span class="job-age">1 m</span></li><li><span class="job-position">2</span><bdi class="job-summary">cargo clippy</bdi><bdi class="job-where">app</bdi><span class="job-age">20 s</span></li></ol>
+<ol class="jobs-list jobs-waiting"><li><span class="job-position">1</span><bdi class="job-summary">cargo test</bdi><bdi class="job-where">app-wt1 · API cleanup</bdi><span class="job-age">1 m</span></li><li><span class="job-position">2</span><bdi class="job-summary">cargo clippy</bdi><bdi class="job-where">app</bdi><span class="job-age">20 s</span></li></ol>
 <div class="agents-heading">Not queued 1</div>
 <ol class="jobs-list jobs-running jobs-outside"><li><bdi class="job-summary">make</bdi><bdi class="job-where">outside this pool</bdi><span class="job-age">3 m</span></li></ol>
 </div>

diff --git a/docs/design/jobs/attachments/StripInvalid.html b/docs/design/jobs/attachments/StripInvalid.html
@@ -41,7 +41,7 @@
 <div class="agents-heading">Running 4 of 4</div>
 <ol class="jobs-list jobs-running"><li><bdi class="job-summary">cargo nextest</bdi><bdi class="job-where">app-wt1 · Panel build</bdi><span class="job-age">4 m</span></li><li><bdi class="job-summary">npm run</bdi><bdi class="job-where">app-wt3 · session 08:40</bdi><span class="job-age">2 m</span></li><li><bdi class="job-summary">verify</bdi><bdi class="job-where">outside this pool</bdi><span class="job-age">12 m</span></li><li><bdi class="job-summary">cargo build</bdi><bdi class="job-where">outside this pool</bdi><span class="job-age">1 m</span></li></ol>
 <div class="agents-heading">Queued 2</div>
-<ol class="jobs-list jobs-waiting"><li><span class="job-position">1</span><bdi class="job-summary">cargo test</bdi><bdi class="job-where">app-wt1 · Design jobs</bdi><span class="job-age">1 m</span></li><li><span class="job-position">2</span><bdi class="job-summary">cargo clippy</bdi><bdi class="job-where">app</bdi><span class="job-age">20 s</span></li></ol>
+<ol class="jobs-list jobs-waiting"><li><span class="job-position">1</span><bdi class="job-summary">cargo test</bdi><bdi class="job-where">app-wt1 · API cleanup</bdi><span class="job-age">1 m</span></li><li><span class="job-position">2</span><bdi class="job-summary">cargo clippy</bdi><bdi class="job-where">app</bdi><span class="job-age">20 s</span></li></ol>
 <div class="agents-heading">Not queued 1</div>
 <ol class="jobs-list jobs-running jobs-outside"><li><bdi class="job-summary">make</bdi><bdi class="job-where">outside this pool</bdi><span class="job-age">3 m</span></li></ol>
 </div>

diff --git a/docs/design/jobs/attachments/StripLowered.html b/docs/design/jobs/attachments/StripLowered.html
@@ -41,7 +41,7 @@
 <div class="agents-heading">Running 4 of 2</div>
 <ol class="jobs-list jobs-running"><li><bdi class="job-summary">cargo nextest</bdi><bdi class="job-where">app-wt1 · Panel build</bdi><span class="job-age">4 m</span></li><li><bdi class="job-summary">npm run</bdi><bdi class="job-where">app-wt3 · session 08:40</bdi><span class="job-age">2 m</span></li><li><bdi class="job-summary">verify</bdi><bdi class="job-where">outside this pool</bdi><span class="job-age">12 m</span></li><li><bdi class="job-summary">cargo build</bdi><bdi class="job-where">outside this pool</bdi><span class="job-age">1 m</span></li></ol>
 <div class="agents-heading">Queued 2</div>
-<ol class="jobs-list jobs-waiting"><li><span class="job-position">1</span><bdi class="job-summary">cargo test</bdi><bdi class="job-where">app-wt1 · Design jobs</bdi><span class="job-age">1 m</span></li><li><span class="job-position">2</span><bdi class="job-summary">cargo clippy</bdi><bdi class="job-where">app</bdi><span class="job-age">20 s</span></li></ol>
+<ol class="jobs-list jobs-waiting"><li><span class="job-position">1</span><bdi class="job-summary">cargo test</bdi><bdi class="job-where">app-wt1 · API cleanup</bdi><span class="job-age">1 m</span></li><li><span class="job-position">2</span><bdi class="job-summary">cargo clippy</bdi><bdi class="job-where">app</bdi><span class="job-age">20 s</span></li></ol>
 <div class="agents-heading">Not queued 1</div>
 <ol class="jobs-list jobs-running jobs-outside"><li><bdi class="job-summary">make</bdi><bdi class="job-where">outside this pool</bdi><span class="job-age">3 m</span></li></ol>
 </div>

diff --git a/docs/design/jobs/attachments/StripRefused.html b/docs/design/jobs/attachments/StripRefused.html
@@ -41,7 +41,7 @@
 <div class="agents-heading">Running 4 of 4</div>
 <ol class="jobs-list jobs-running"><li><bdi class="job-summary">cargo nextest</bdi><bdi class="job-where">app-wt1 · Panel build</bdi><span class="job-age">4 m</span></li><li><bdi class="job-summary">npm run</bdi><bdi class="job-where">app-wt3 · session 08:40</bdi><span class="job-age">2 m</span></li><li><bdi class="job-summary">verify</bdi><bdi class="job-where">outside this pool</bdi><span class="job-age">12 m</span></li><li><bdi class="job-summary">cargo build</bdi><bdi class="job-where">outside this pool</bdi><span class="job-age">1 m</span></li></ol>
 <div class="agents-heading">Queued 2</div>
-<ol class="jobs-list jobs-waiting"><li><span class="job-position">1</span><bdi class="job-summary">cargo test</bdi><bdi class="job-where">app-wt1 · Design jobs</bdi><span class="job-age">1 m</span></li><li><span class="job-position">2</span><bdi class="job-summary">cargo clippy</bdi><bdi class="job-where">app</bdi><span class="job-age">20 s</span></li></ol>
+<ol class="jobs-list jobs-waiting"><li><span class="job-position">1</span><bdi class="job-summary">cargo test</bdi><bdi class="job-where">app-wt1 · API cleanup</bdi><span class="job-age">1 m</span></li><li><span class="job-position">2</span><bdi class="job-summary">cargo clippy</bdi><bdi class="job-where">app</bdi><span class="job-age">20 s</span></li></ol>
 <div class="agents-heading">Not queued 1</div>
 <ol class="jobs-list jobs-running jobs-outside"><li><bdi class="job-summary">make</bdi><bdi class="job-where">outside this pool</bdi><span class="job-age">3 m</span></li></ol>
 </div>

diff --git a/docs/design/jobs/attachments/StripRemote.html b/docs/design/jobs/attachments/StripRemote.html
@@ -42,7 +42,7 @@
 <div class="agents-heading">Running 4 of 4</div>
 <ol class="jobs-list jobs-running"><li><bdi class="job-summary">cargo nextest</bdi><bdi class="job-where">app-wt1 · Panel build</bdi><span class="job-age">4 m</span></li><li><bdi class="job-summary">npm run</bdi><bdi class="job-where">app-wt3 · session 08:40</bdi><span class="job-age">2 m</span></li><li><bdi class="job-summary">verify</bdi><bdi class="job-where">outside this pool</bdi><span class="job-age">12 m</span></li><li><bdi class="job-summary">cargo build</bdi><bdi class="job-where">outside this pool</bdi><span class="job-age">1 m</span></li></ol>
 <div class="agents-heading">Queued 2</div>
-<ol class="jobs-list jobs-waiting"><li><span class="job-position">1</span><bdi class="job-summary">cargo test</bdi><bdi class="job-where">app-wt1 · Design jobs</bdi><span class="job-age">1 m</span></li><li><span class="job-position">2</span><bdi class="job-summary">cargo clippy</bdi><bdi class="job-where">app</bdi><span class="job-age">20 s</span></li></ol>
+<ol class="jobs-list jobs-waiting"><li><span class="job-position">1</span><bdi class="job-summary">cargo test</bdi><bdi class="job-where">app-wt1 · API cleanup</bdi><span class="job-age">1 m</span></li><li><span class="job-position">2</span><bdi class="job-summary">cargo clippy</bdi><bdi class="job-where">app</bdi><span class="job-age">20 s</span></li></ol>
 <div class="agents-heading">Not queued 1</div>
 <ol class="jobs-list jobs-running jobs-outside"><li><bdi class="job-summary">make</bdi><bdi class="job-where">outside this pool</bdi><span class="job-age">3 m</span></li></ol>
 </div>

diff --git a/docs/design/jobs/attachments/StripRequire.html b/docs/design/jobs/attachments/StripRequire.html
@@ -41,7 +41,7 @@
 <div class="agents-heading">Running 4 of 4</div>
 <ol class="jobs-list jobs-running"><li><bdi class="job-summary">cargo nextest</bdi><bdi class="job-where">app-wt1 · Panel build</bdi><span class="job-age">4 m</span></li><li><bdi class="job-summary">npm run</bdi><bdi class="job-where">app-wt3 · session 08:40</bdi><span class="job-age">2 m</span></li><li><bdi class="job-summary">verify</bdi><bdi class="job-where">outside this pool</bdi><span class="job-age">12 m</span></li><li><bdi class="job-summary">cargo build</bdi><bdi class="job-where">outside this pool</bdi><span class="job-age">1 m</span></li></ol>
 <div class="agents-heading">Queued 2</div>
-<ol class="jobs-list jobs-waiting"><li><span class="job-position">1</span><bdi class="job-summary">cargo test</bdi><bdi class="job-where">app-wt1 · Design jobs</bdi><span class="job-age">1 m</span></li><li><span class="job-position">2</span><bdi class="job-summary">cargo clippy</bdi><bdi class="job-where">app</bdi><span class="job-age">20 s</span></li></ol>
+<ol class="jobs-list jobs-waiting"><li><span class="job-position">1</span><bdi class="job-summary">cargo test</bdi><bdi class="job-where">app-wt1 · API cleanup</bdi><span class="job-age">1 m</span></li><li><span class="job-position">2</span><bdi class="job-summary">cargo clippy</bdi><bdi class="job-where">app</bdi><span class="job-age">20 s</span></li></ol>
 <div class="agents-heading">Not queued 1</div>
 <ol class="jobs-list jobs-running jobs-outside"><li><bdi class="job-summary">make</bdi><bdi class="job-where">outside this pool</bdi><span class="job-age">3 m</span></li></ol>
 </div>
